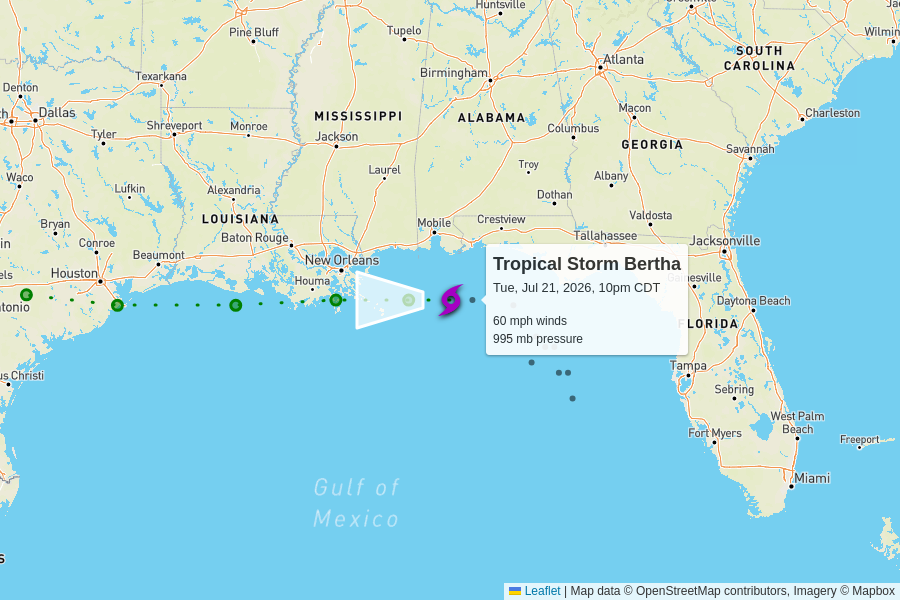
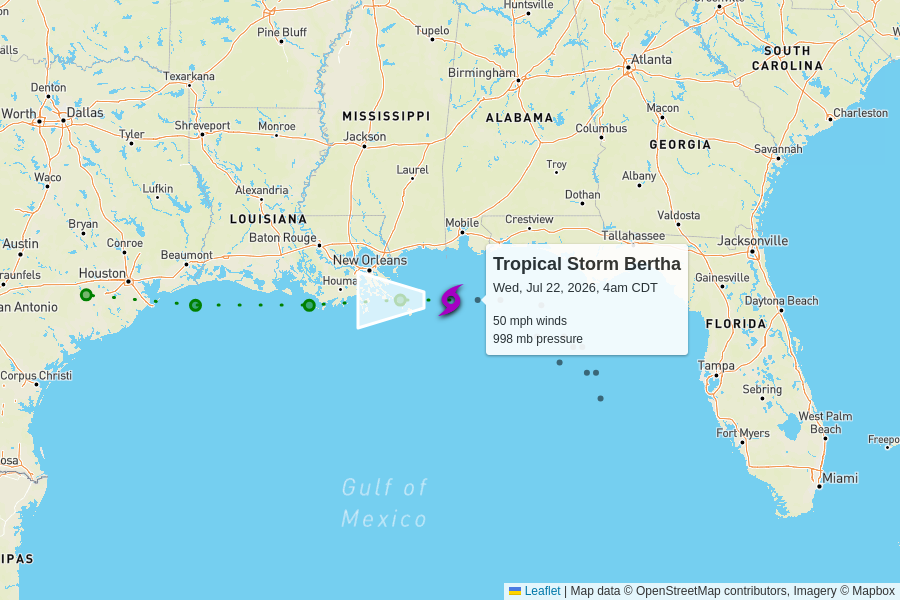
automatic update

diff --git a/docs/index.html b/docs/index.html
@@ -102,7 +102,7 @@
         <td colspan="6" class="storm category-0" >
           <h2>
             Tropical Storm Bertha
-            <p class="updated">last updated <span data-time>2026-07-22T03:00:00.000Z</span></p>
+            <p class="updated">last updated <span data-time>2026-07-22T09:00:00.000Z</span></p>
           </h2>
         </td>
       </tr>
@@ -117,10 +117,10 @@
       </tr>
       <tr>
         <td class="spacer"></td>
-        <td>60 mph<br>0 mph since last update</td>
-        <td>995 mb<br>0 mb since last update</td>
+        <td>50 mph<br>-10 mph since last update</td>
+        <td>998 mb<br>+3 mb since last update</td>
         <td>
-          6 mph to the west
+          5 mph to the west
           <br/>
           <span style="display: inline-block; font-size: 1.5em; transform: rotate(270deg);">↑</span>
         </td>